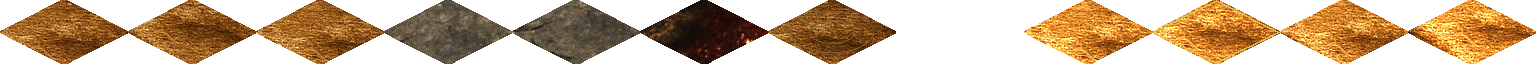
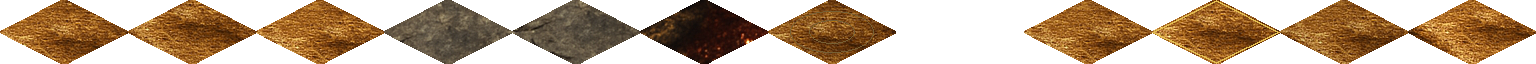
Sietch refine: contact shadows, natural floor, taller walls, NPC scale
Addressing playtest feedback on the hub look:
- Floor was blindingly bright -> natural warm sand (brightness ~1.0, not 1.45).
- Walls were too short -> raised the iso block back to an enclosing 128x152
  (face ~88) with a darker cap for floor/wall contrast.
- NPCs/decor felt like "stickers on top of each other": added soft elliptical
  CONTACT SHADOWS (render.cpp ground_shadow) under every standing actor and prop
  (skipping the flat rug, flying/pickup types, and worm-riding), which grounds
  the billboards to the floor.
- fremen2 rendered half-height: pinned all Fremen sprites to the player's
  stature via genart HEIGHTS so NPCs match the character's scale.

Presentation-only; 10/10 tests green, dettest unchanged (5ee8fdccb3c91532).

Changed region(s): [[0.6562, 0.0, 1.0, 1.0]]

diff --git a/src/game/game.cpp b/src/game/game.cpp
@@ -3171,8 +3171,10 @@ void pass_decor(RenderCtx& r) {
             iso::tile_to_screen(d.x, d.y, g.cam, sx, sy);
             if (sx < -96 || sx > fb::W + 96 || sy < -128 || sy > fb::H + 128) continue;
             const DecorDef& def = kDecorProps[d.prop];
-            g.draw_list.add(&sheet_or_ph(r, def.key), 0, sx, sy + def.seat,
-                            tile_light(r, idx), def.layer);
+            const SpriteSheet& psh = sheet_or_ph(r, def.key);
+            if (d.prop != 0)  // ground standing props (the rug is already flat)
+                ground_shadow(r.ctx.frame, sx, sy + 14, psh.fw / 4 + 6, psh.fw / 8 + 3);
+            g.draw_list.add(&psh, 0, sx, sy + def.seat, tile_light(r, idx), def.layer);
         }
     }
     // exit door as a real prop, wherever a TF_DOOR pad sits
@@ -3218,6 +3220,7 @@ void pass_entities(RenderCtx& r) {
                     sx += int(g.rng.fx.below(3)) - 1;
                 }
                 const bool riding = e.type == EType::Player && g.pl.riding;
+                if (!riding) ground_shadow(r.ctx.frame, sx, sy + 16, 18, 8);
                 g.draw_list.add(sheet, frame, sx, sy + (riding ? -20 : 12),
                                 light2, riding ? 3 : 1, flip);
                 if (e.type == EType::ShieldTrooper && g.anim_tick % 5 == 0)
@@ -3232,6 +3235,14 @@ void pass_entities(RenderCtx& r) {
         iso::tile_to_screen(e.x, e.y, g.cam, sx, sy);
         int light = g.lightmap[idx];
         if (light < light::kEntityMinLight) light = light::kEntityMinLight;  // mobs stay visible
+        // contact shadow to ground standing actors (skip flat/flying/pickup types)
+        switch (e.type) {
+            case EType::Glowglobe: case EType::HunterSeeker: case EType::Corpse:
+            case EType::SpiceCache: case EType::Loot: case EType::Thumper: break;
+            default:
+                if (!(e.type == EType::Player && g.pl.riding))
+                    ground_shadow(r.ctx.frame, sx, sy + 16, 18, 8);
+        }
         switch (e.type) {
             case EType::Player:
                 g.draw_list.add(player_spr, (g.anim_tick / 9) % 4, sx,

diff --git a/tools/genart.py b/tools/genart.py
@@ -357,6 +357,7 @@ HEIGHTS = {k: v * FIG_SCALE for k, v in {
     "glowglobe": 20, "rock": 52, "wall": 76, "cistern": 40,
     "wormhead": 104, "wormseg": 60, "crawler": 88,
     "champion": 58, "baron": 60, "guildsman": 54,
+    "fremen": 52, "fremen2": 52,  # match the player's on-screen stature
 }.items()}
 
 def _green_dominant(c):
@@ -519,7 +520,7 @@ def build_wall(rock, fw, fh):
                 opx[x, y] = (int(r * sh), int(g * sh), int(b * sh), 255)
     # sandy cap on top, slightly shadowed vs the bright floor so raised walls read
     # distinct; the darker shaded faces below give the wall its height.
-    cap = cut_diamond(rock, fw, 64, rng, 0.88, (rock.width // 2, rock.height // 2))
+    cap = cut_diamond(rock, fw, 64, rng, 0.75, (rock.width // 2, rock.height // 2))
     out.paste(cap, (0, 0), cap)
     return out
 
@@ -540,11 +541,12 @@ def build_tiles(textures, fw, fh, frames):
         cut_diamond(spice, fw, fh, rng),                # 5 spice-flecked
         cut_diamond(sand, fw, fh, rng, 0.9, sand_a),    # 6 drum sand (ringed below)
         None,                                            # 7 highlight (procedural)
-        # sietch FLOOR: bright warm sand, clearly lighter than the shadowed walls.
-        cut_diamond(sand, fw, fh, rng, 1.45, sand_a),   # 8 sietch floor
-        cut_diamond(sand, fw, fh, rng, 1.50, sand_a),   # 9 door pad (gold rim below)
-        cut_diamond(sand, fw, fh, rng, 1.35, sand_a),   # 10 sietch floor variant b
-        cut_diamond(sand, fw, fh, rng, 1.55, sand_a),   # 11 sietch floor variant c
+        # sietch FLOOR: natural warm sand, a touch lighter than the shadowed walls
+        # (not blinding — earlier it was over-brightened).
+        cut_diamond(sand, fw, fh, rng, 0.98, sand_a),   # 8 sietch floor
+        cut_diamond(sand, fw, fh, rng, 1.02, sand_a),   # 9 door pad (gold rim below)
+        cut_diamond(sand, fw, fh, rng, 0.92, sand_a),   # 10 sietch floor variant b
+        cut_diamond(sand, fw, fh, rng, 1.06, sand_a),   # 11 sietch floor variant c
     ]
     # drum sand rings
     d = ImageDraw.Draw(tiles[6])

diff --git a/src/engine/render.cpp b/src/engine/render.cpp
@@ -76,6 +76,28 @@ void draw_text_shadow(DrawCtx& ctx, const char* text, int x, int y,
     draw_text(ctx, text, x, y, color, s);
 }
 
+void ground_shadow(Framebuffer* f, int cx, int cy, int rx, int ry) {
+    if (rx < 1 || ry < 1) return;
+    const int rx2 = rx * rx, ry2 = ry * ry;
+    for (int y = -ry; y <= ry; ++y) {
+        const int py = cy + y;
+        if (py < 0 || py >= fb::H) continue;
+        for (int x = -rx; x <= rx; ++x) {
+            const int px = cx + x;
+            if (px < 0 || px >= fb::W) continue;
+            // normalized squared ellipse distance, 0 at centre .. 256 at the rim
+            const int e = (x * x * 256) / rx2 + (y * y * 256) / ry2;
+            if (e > 256) continue;
+            const int sh = 52 + e * 44 / 256;  // multiply floor by 52%(centre)..96%(rim)
+            const uint32_t c = f->px[py * fb::W + px];
+            const uint32_t r = (((c >> 16) & 0xff) * sh) / 100;
+            const uint32_t g = (((c >> 8) & 0xff) * sh) / 100;
+            const uint32_t b = ((c & 0xff) * sh) / 100;
+            f->px[py * fb::W + px] = 0xff000000u | (r << 16) | (g << 8) | b;
+        }
+    }
+}
+
 void fill_rect(DrawCtx& ctx, int x, int y, int w, int h, uint8_t color) {
     const uint32_t rgb = 0xff000000u | ctx.pal->color[color];
     int x0 = x < 0 ? 0 : x, y0 = y < 0 ? 0 : y;

diff --git a/tools/make_assets.py b/tools/make_assets.py
@@ -568,7 +568,7 @@ SHEETS = {
     "rock":     (lambda: make_rock_prop(), 32, 32, 1, 16, 26),
     "hound":    (lambda: make_hound(), 16, 16, 2, 8, 13),
     "corpse":   (lambda: make_corpse(), 16, 10, 1, 8, 7),
-    "wall":     (lambda: make_box(32, 24), 32, 24, 1, 16, 20),  # procedural iso block (low rim)
+    "wall":     (lambda: make_box(32, 38), 32, 38, 1, 16, 34),  # procedural iso block (enclosing)
     "cistern":  (lambda: make_cistern(), 24, 24, 1, 12, 20),
     "ripple":   (lambda: make_ripple(), 32, 16, 2, 16, 8),
     "mound":    (lambda: make_mound(), 32, 24, 3, 16, 16),

diff --git a/src/engine/render.h b/src/engine/render.h
@@ -35,3 +35,8 @@ void draw_text_shadow(DrawCtx& ctx, const char* text, int x, int y,
                       uint8_t color, uint8_t shadow, int scale = 0);
 
 void fill_rect(DrawCtx& ctx, int x, int y, int w, int h, uint8_t color);
+
+// Soft elliptical contact shadow: darkens the framebuffer (the floor already
+// drawn) under an actor/prop so billboards read as grounded, not stickers.
+// Call before the sprite is drawn over it. (cx,cy) is the ground-contact point.
+void ground_shadow(Framebuffer* f, int cx, int cy, int rx, int ry);
